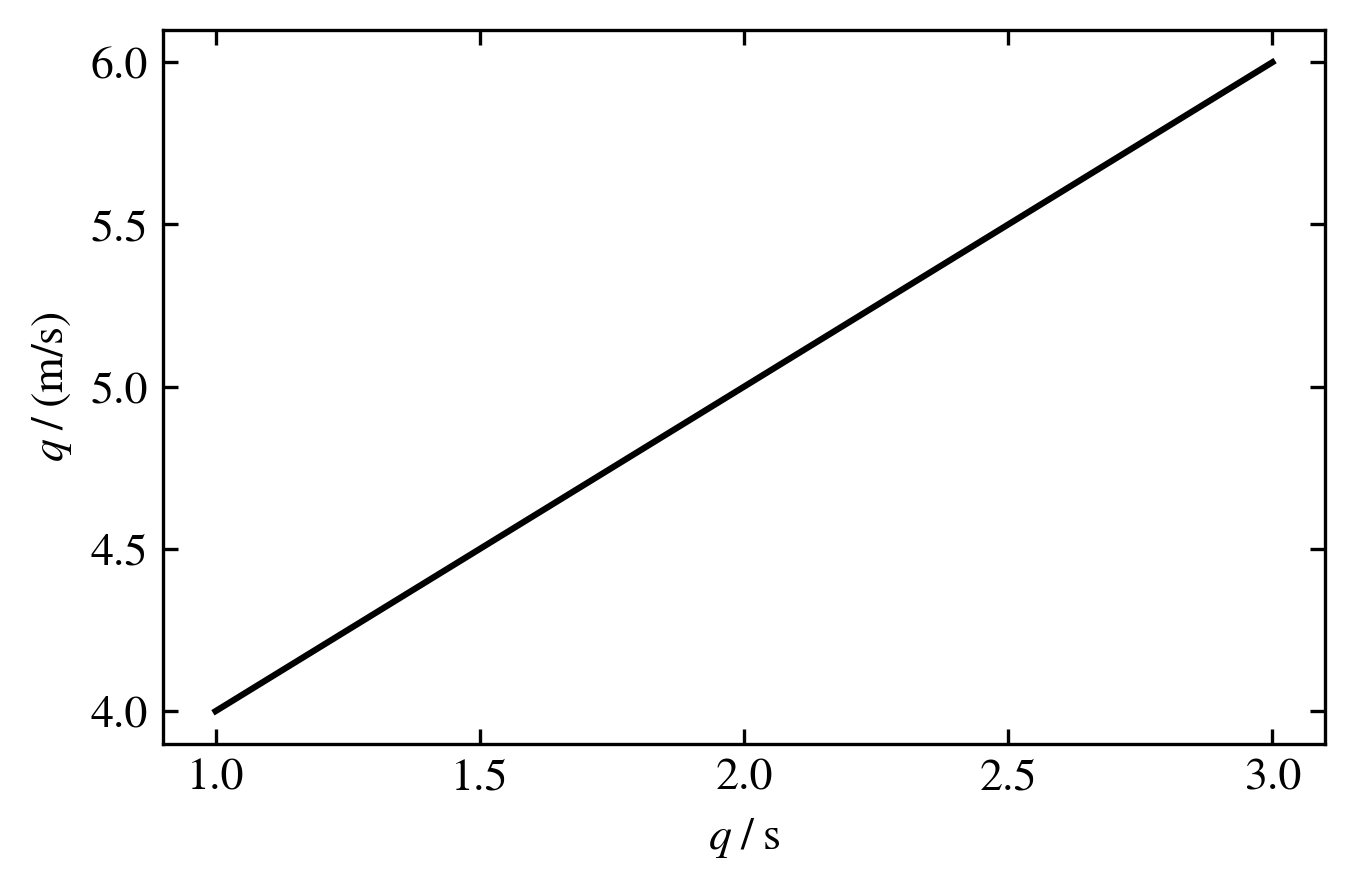
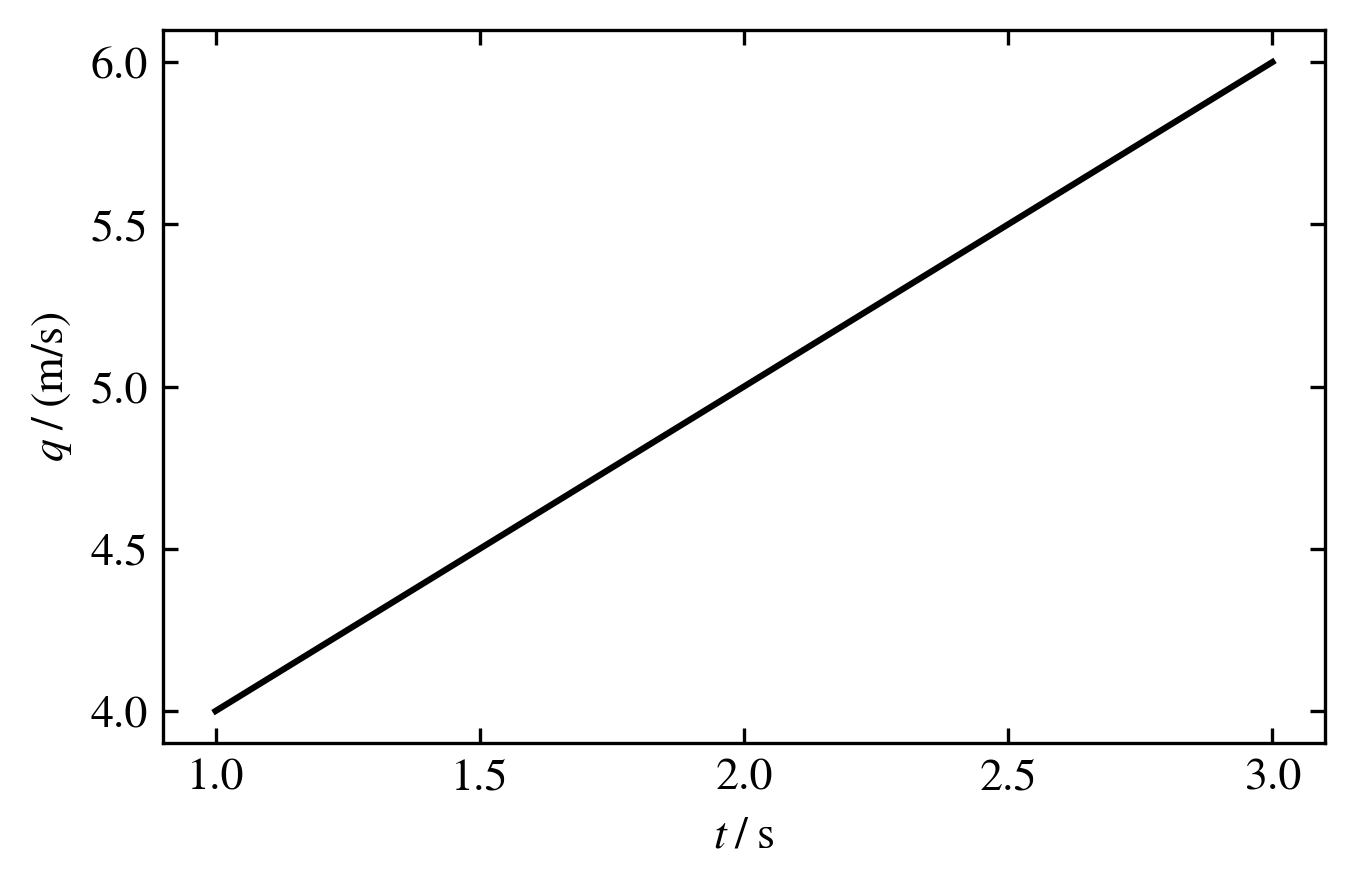
DOC: minor corrections

diff --git a/unit_system/quantity.py b/unit_system/quantity.py
@@ -77,7 +77,7 @@ class Quantity(np.ndarray):
 
     @property
     def qsym(self):
-        """symbol (str): the quantity symbol for use as a label
+        r"""symbol (str): the quantity symbol for use as a label
             The symbol can be a Python expression like 'v_max**2' or
             can be a Latex expression like '$v_{\\rm max}^2$'.
         """

diff --git a/doc/usage.rst b/doc/usage.rst
@@ -66,13 +66,14 @@ in the case of Quantity, the default axis labels are based on the unit. For exam
 
 .. image:: examples/default_labels_graph.png
 
-In this graph, the x-axis is labeled '*q* / s' where '*q*' is the quantity symbol and
-'s' is the unit symbol for the unit seconds. The label is consistent with the BIPM
-recommendation discussed in the `SI Brochure`_ section 5.4.1 where the label is
-a mathematical expression. A particular number on the axis, such as 2.00, is then
-read as 2.00 = *q* / s, or *q* = 2.00 s. The *q* here is just a generic quantity
-symbol. It can be replaced by updating the qsym attribute of the Quantity as shown
-in the following example that reproduces the graph in section 5.4.1 of the SI Brochure.
+In this graph, the x-axis is labeled '*t* / s' where '*t*' is the standard quantity
+symbol for time and 's' is the unit symbol for the unit seconds. The label is
+consistent with the BIPM recommendation discussed in the `SI Brochure`_ section
+5.4.1 where the label is a mathematical expression. A particular number on the axis,
+such as 2.0, is then read as 2.00 = *t* / s, or *t* = 2.0 s. On the y-axis, the *q*
+here is just a generic quantity symbol. It can be replaced by updating the qsym
+attribute of the Quantity as shown in the following example that reproduces the graph
+in section 5.4.1 of the SI Brochure.
 
 >>> import matplotlib.pyplot as plt
 >>> from unit_system.predefined_units import *

diff --git a/doc/index.rst b/doc/index.rst
@@ -1,5 +1,6 @@
 Welcome to unit_system
 ======================
+.. image:: https://img.shields.io/pypi/v/unit-system
 
 A Python package for doing physical quantity math in the SI unit system
 
